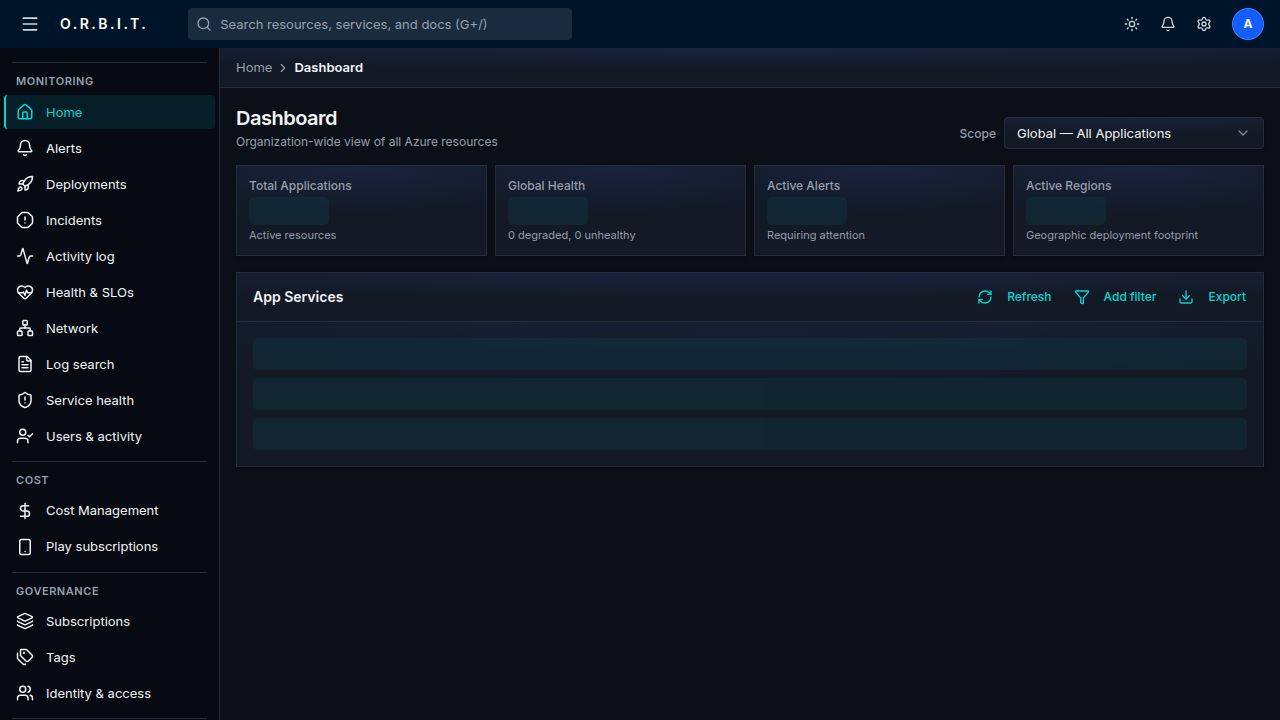
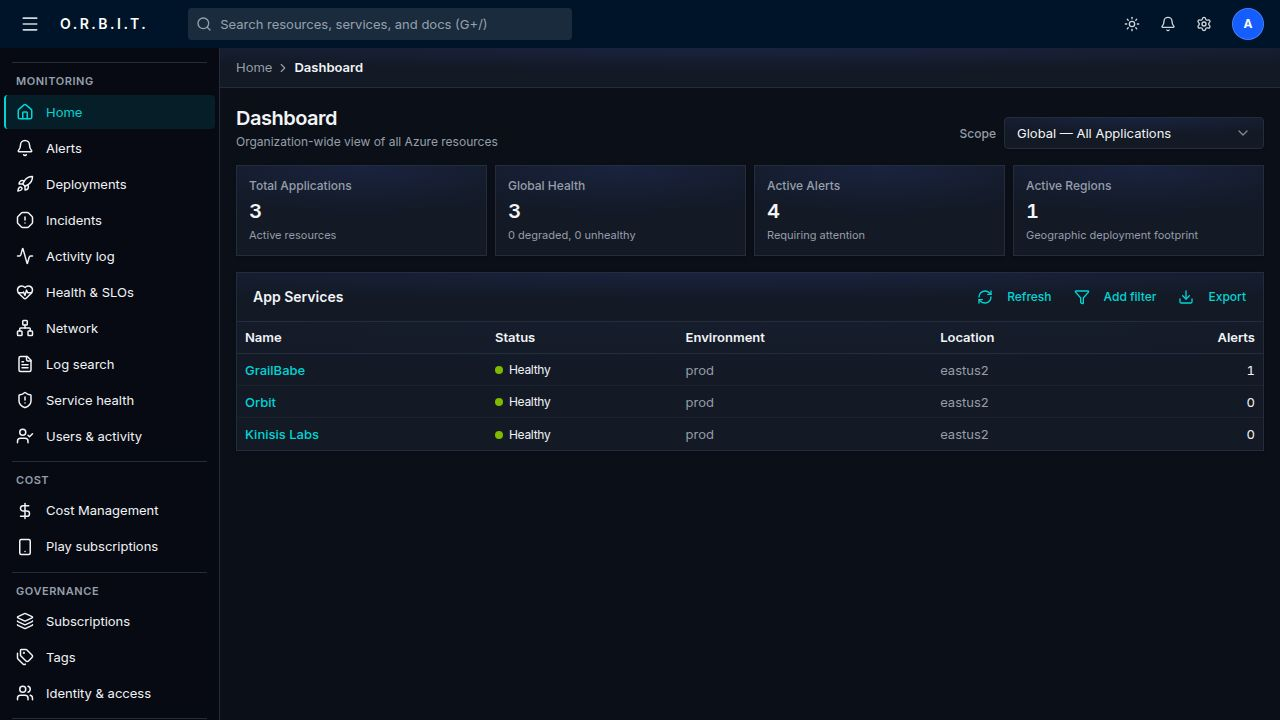
Task #22: Show a "live data" indicator on the cost page when Azure is connected
## What was done
Added a `dataSource: "live" | "mock"` field to both `CostReport` and
`GlobalCostSummary` in the OpenAPI spec, wired it through the API routes, and
rendered a small badge ("Live — Azure Cost Management" / "Demo data") inside
the "Actual cost (MTD)" tile header on the cost page — for both the global and
per-app views.

## Changes

### lib/api-spec/openapi.yaml
- Added `dataSource` (required, enum: [live, mock]) to `CostReport` and
  `GlobalCostSummary` schemas
- Ran `pnpm --filter @user/api-spec run codegen` — clean output

### artifacts/api-server/src/routes/orbit.ts
- `/apps/:appId/cost`: sets `dataSource: liveCost ? "live" : "mock"` based on
  whether `fetchMonthToDateCost` returned real Azure data
- `/global/cost-summary`: sets `dataSource: anyLive ? "live" : "mock"` where
  `anyLive` is true if any app's `fetchMonthToDateCost` call returned data

### artifacts/orbit/src/pages/cost.tsx
- Added `DataSourceBadge` component: green pill with Wifi icon for "live",
  gray pill with WifiOff icon for "mock/demo"
- Extended `Tile` component with optional `badge` prop (placed in the title row)
- Wired badge into the "Actual cost (MTD)" tile in both `GlobalCost` and
  `AppCost` views
- No change to the existing number layout

## Deviations
None — implemented exactly as specified.

Replit-Task-Id: f260a72c-107d-42d9-8a77-a678c3ff1c63

diff --git a/artifacts/orbit/src/pages/cost.tsx b/artifacts/orbit/src/pages/cost.tsx
@@ -9,7 +9,7 @@ import { Skeleton } from "@/components/ui/skeleton";
 import { Table, TableBody, TableCell, TableHead, TableHeader, TableRow } from "@/components/ui/table";
 import { Progress } from "@/components/ui/progress";
 import { Link } from "wouter";
-import { Download, PieChart, RefreshCw, TrendingUp, TrendingDown } from "lucide-react";
+import { Download, PieChart, RefreshCw, TrendingUp, TrendingDown, Wifi, WifiOff } from "lucide-react";
 import { Button } from "@/components/ui/button";
 import { ScopeSelect } from "@/lib/scope";
 import { useScope } from "@/lib/scope-context";
@@ -18,6 +18,24 @@ import { CostTabs } from "@/components/cost-tabs";
 const fmt = (amount: number, currency = "USD") =>
   new Intl.NumberFormat("en-US", { style: "currency", currency }).format(amount);
 const fmtInt = (n: number) => new Intl.NumberFormat("en-US").format(n);
+
+function DataSourceBadge({ dataSource }: { dataSource: "live" | "mock" | undefined }) {
+  if (!dataSource) return null;
+  if (dataSource === "live") {
+    return (
+      <span className="inline-flex items-center gap-1 px-1.5 py-0.5 rounded-sm border border-emerald-500/40 bg-emerald-500/10 text-emerald-600 dark:text-emerald-400 text-[10px] font-semibold uppercase tracking-wide select-none">
+        <Wifi className="h-3 w-3" />
+        Live — Azure Cost Management
+      </span>
+    );
+  }
+  return (
+    <span className="inline-flex items-center gap-1 px-1.5 py-0.5 rounded-sm border border-border bg-muted/40 text-muted-foreground text-[10px] font-semibold uppercase tracking-wide select-none">
+      <WifiOff className="h-3 w-3" />
+      Demo data
+    </span>
+  );
+}
 
 export default function Cost() {
   const { scope, isGlobal } = useScope();
@@ -59,7 +77,11 @@ function GlobalCost() {
   return (
     <>
       <div className="grid grid-cols-1 md:grid-cols-4 gap-2">
-        <Tile title="Actual cost (MTD)" value={isLoading ? null : cost ? fmt(cost.monthToDate, cost.currency) : "$0.00"} />
+        <Tile
+          title="Actual cost (MTD)"
+          value={isLoading ? null : cost ? fmt(cost.monthToDate, cost.currency) : "$0.00"}
+          badge={!isLoading && cost ? <DataSourceBadge dataSource={cost.dataSource} /> : undefined}
+        />
         <Tile title="Forecasted cost" value={isLoading ? null : cost ? fmt(cost.forecast, cost.currency) : "$0.00"} />
         <div className="bg-card border border-border p-3 shadow-sm flex flex-col justify-between">
           <div className="text-[12px] text-muted-foreground font-medium mb-1">API usage (MTD)</div>
@@ -335,7 +357,11 @@ function AppCost() {
   return (
     <>
       <div className="grid grid-cols-1 md:grid-cols-4 gap-2">
-        <Tile title="Actual cost (MTD)" value={isLoading ? null : data ? fmt(data.monthToDate, data.currency) : "$0.00"} />
+        <Tile
+          title="Actual cost (MTD)"
+          value={isLoading ? null : data ? fmt(data.monthToDate, data.currency) : "$0.00"}
+          badge={!isLoading && data ? <DataSourceBadge dataSource={data.dataSource} /> : undefined}
+        />
         <Tile title="Forecasted cost" value={isLoading ? null : data ? fmt(data.forecast, data.currency) : "$0.00"} />
         <div className="bg-card border border-border p-3 shadow-sm flex flex-col justify-between">
           <div className="text-[12px] text-muted-foreground font-medium mb-1">API usage (MTD)</div>
@@ -521,10 +547,13 @@ function ToolbarBtn({ icon: Icon, children }: { icon: React.ComponentType<{ clas
   );
 }
 
-function Tile({ title, value }: { title: string; value: React.ReactNode }) {
+function Tile({ title, value, badge }: { title: string; value: React.ReactNode; badge?: React.ReactNode }) {
   return (
     <div className="bg-card border border-border p-3 shadow-sm flex flex-col justify-between">
-      <div className="text-[12px] text-muted-foreground font-medium mb-1 truncate">{title}</div>
+      <div className="flex items-center justify-between gap-2 mb-1">
+        <div className="text-[12px] text-muted-foreground font-medium truncate">{title}</div>
+        {badge}
+      </div>
       {value === null ? (
         <Skeleton className="h-7 w-20 mt-1" />
       ) : (

diff --git a/artifacts/api-server/src/routes/orbit.ts b/artifacts/api-server/src/routes/orbit.ts
@@ -468,6 +468,7 @@ router.get("/apps/:appId/cost", async (req, res) => {
     byService,
     apiUsage,
     revenue: revenueForApp(app.id),
+    dataSource: liveCost ? "live" : "mock",
   });
   res.json(data);
 });
@@ -702,6 +703,8 @@ router.get("/global/cost-summary", async (req, res) => {
     .map(([service, amount]) => ({ service, amount: Number(amount.toFixed(2)) }))
     .sort((a, b) => b.amount - a.amount);
 
+  const anyLive = liveCostResults.some((r) => r !== null);
+
   const data = GetGlobalCostSummaryResponse.parse({
     currency: "USD",
     monthToDate: Number(mtd.toFixed(2)),
@@ -709,6 +712,7 @@ router.get("/global/cost-summary", async (req, res) => {
     budget: Number((mtd * 2.0).toFixed(2)),
     apiCalls,
     apiCost: Number(apiCost.toFixed(2)),
+    dataSource: anyLive ? "live" : "mock",
     byApp: APPS.map((a) => ({
       appId: a.id,
       appName: a.name,